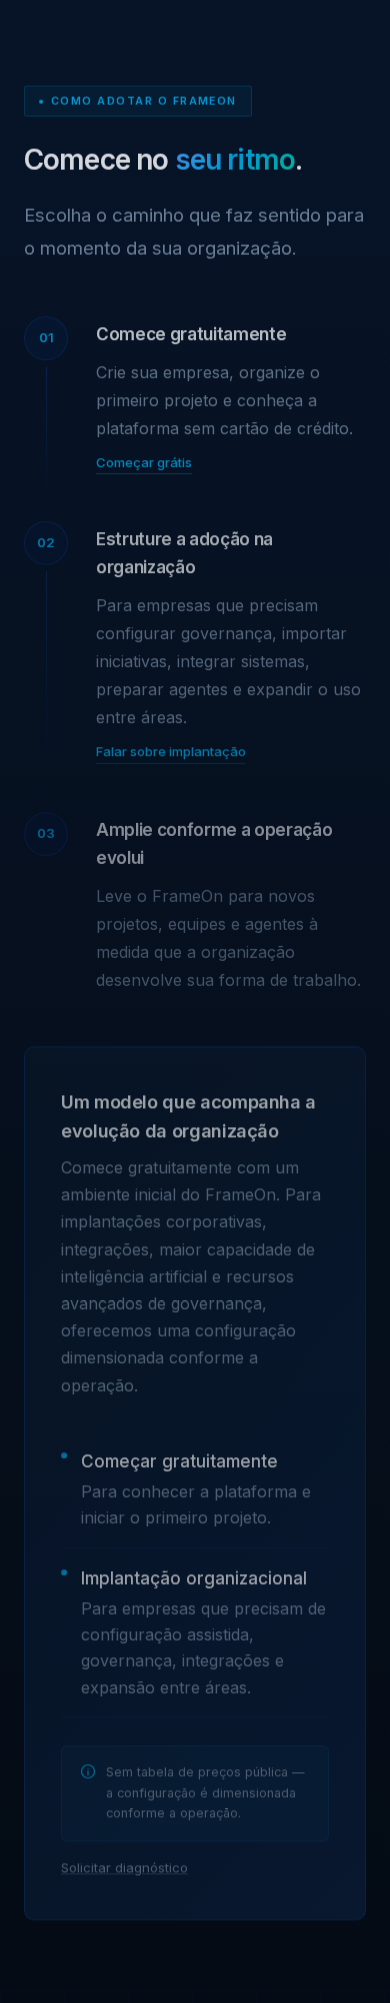
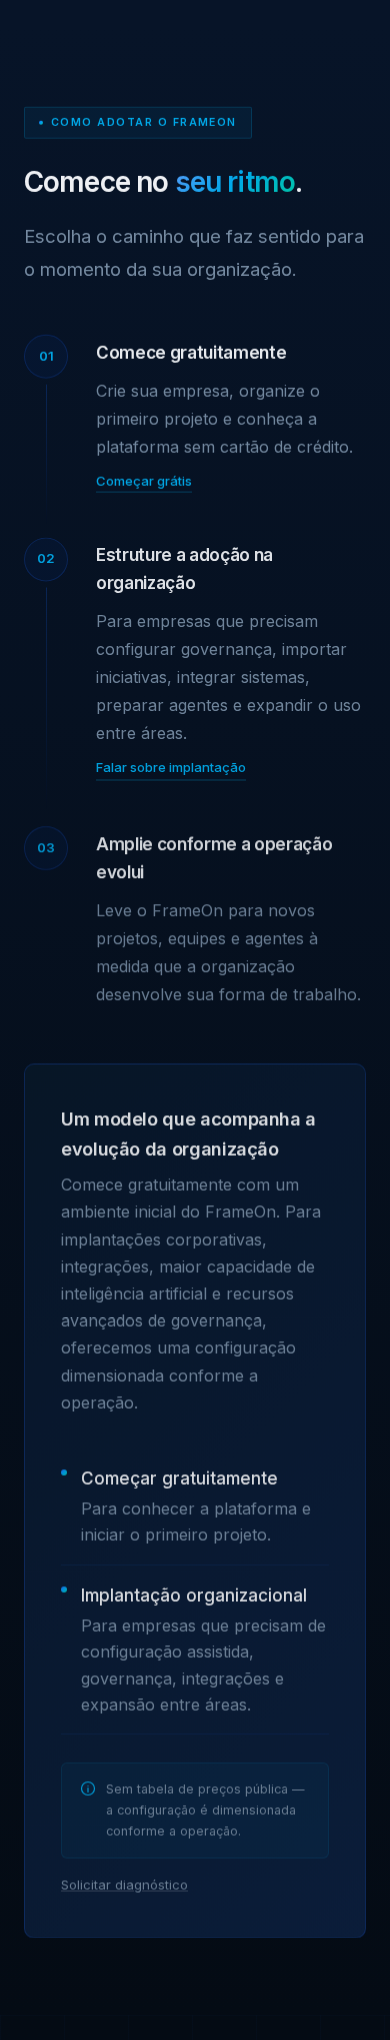
Substitui o mockup do placeholder por ilustracao conceitual de produto SaaS
Atendendo ao pedido de nao usar um placeholder vazio/tracejado nem uma
reproducao da interface real do FrameOn:

- Novo '.concept-panel': ilustracao conceitual de um produto SaaS
  ficticio (dark mode, azul/ciano, cantos arredondados, glassmorphism
  leve, linhas finas) mostrando: sidebar de projetos ativos com barras
  de progresso; fluxo pessoas -> agentes com linha animada; painel de
  projeto central com timeline de tarefas (concluidas/ativa/pendentes)
  e tag 'Decision'; grade 2x2 de 4 agentes nomeados (Requirements,
  Delivery, Risk, Knowledge Agent) cada um com tag de status (AI
  Agent, Completed, Review, Context Updated); mini metricas (donut +
  sparkline). Nenhum texto, logo ou tela reais do FrameOn.
- Badge 'Conceito ilustrativo' reposicionado para a borda superior do
  card (fora da area com overflow:hidden, evitando sobreposicao com o
  avatar do topbar).
- Legenda abaixo reforca por escrito que e uma ilustracao conceitual,
  nao a interface real do produto (pt/en/es em i18n.js).
- Regenerados os 13 screenshots do PR com o novo mockup.

diff --git a/index.html b/index.html
@@ -188,23 +188,72 @@ footer{background:#030810;border-top:1px solid var(--border);padding:64px 0 40px
 /* ── DEMO (Veja o FrameOn em acao) ── */
 .s-demo{background:var(--bg-deep)}
 .demo-visual{display:flex;flex-direction:column;gap:16px}
-.demo-frame{position:relative;border-radius:12px;overflow:hidden;border:1px solid rgba(30,107,255,.22);background:linear-gradient(135deg,#091829,#0D2040);box-shadow:0 24px 60px rgba(0,0,0,.35)}
-.demo-frame-badge{position:absolute;top:14px;right:14px;font-size:9.5px;font-weight:600;letter-spacing:.08em;text-transform:uppercase;color:var(--cyan);background:rgba(0,174,239,.1);border:1px solid rgba(0,174,239,.25);padding:4px 10px;border-radius:100px;z-index:2}
-.demo-frame-bar{display:flex;align-items:center;gap:6px;padding:14px 16px;border-bottom:1px solid var(--border);background:rgba(4,11,20,.4)}
-.demo-dot{width:7px;height:7px;border-radius:50%;background:#2A4060}
-.demo-frame-url{margin-left:10px;height:8px;width:120px;border-radius:4px;background:rgba(255,255,255,.06)}
-.demo-frame-body{display:flex;min-height:320px}
-.demo-frame-nav{width:64px;padding:20px 10px;display:flex;flex-direction:column;gap:12px;border-right:1px solid var(--border)}
-.demo-nav-item{height:8px;border-radius:4px;background:rgba(255,255,255,.07)}
-.demo-nav-item.active{background:var(--grad-main)}
-.demo-frame-content{flex:1;padding:24px;display:flex;flex-direction:column;gap:16px}
-.demo-content-row{height:10px;width:55%;border-radius:4px;background:rgba(255,255,255,.09)}
-.demo-card{background:rgba(255,255,255,.02);border:1px solid var(--border);border-radius:8px;padding:14px;display:flex;flex-direction:column;gap:8px}
-.demo-card-line{height:7px;border-radius:4px;background:rgba(255,255,255,.09)}
-.demo-card-line.w70{width:70%}.demo-card-line.w60{width:60%}.demo-card-line.w50{width:50%}.demo-card-line.w40{width:40%}.demo-card-line.w30{width:30%}
-.demo-card-agent{flex-direction:row;align-items:center;gap:10px;border-color:rgba(0,174,239,.3);background:rgba(0,174,239,.05)}
-.demo-agent-dot{width:16px;height:16px;border-radius:50%;background:var(--grad-main);flex-shrink:0;box-shadow:0 0 12px rgba(30,107,255,.6)}
-.demo-visual-caption{font-size:12px;color:var(--white-muted);text-align:center}
+.concept-wrap{position:relative}
+.demo-frame-badge{position:absolute;top:-11px;right:20px;font-size:9.5px;font-weight:600;letter-spacing:.08em;text-transform:uppercase;color:var(--cyan);background:#0B1F3B;border:1px solid rgba(0,174,239,.35);padding:4px 10px;border-radius:100px;z-index:3;box-shadow:0 4px 12px rgba(0,0,0,.3)}
+.demo-visual-caption{font-size:12px;color:var(--white-muted);text-align:center;max-width:440px;margin:0 auto;line-height:1.6}
+
+/* ── Concept mockup: fictional SaaS product illustration ── */
+.concept-panel{position:relative;border-radius:16px;overflow:hidden;border:1px solid rgba(30,107,255,.2);background:linear-gradient(160deg,rgba(9,24,41,.92),rgba(13,32,64,.88));box-shadow:0 30px 70px rgba(0,0,0,.4)}
+.concept-panel::before{content:'';position:absolute;top:-100px;right:-70px;width:260px;height:260px;background:radial-gradient(circle,rgba(0,174,239,.10),transparent 70%);pointer-events:none}
+.concept-topbar{position:relative;display:flex;align-items:center;gap:6px;padding:14px 18px;border-bottom:1px solid var(--border);background:rgba(4,11,20,.35)}
+.concept-dot{width:7px;height:7px;border-radius:50%;background:#2A4060}
+.concept-search{margin-left:12px;height:8px;width:100px;border-radius:4px;background:rgba(255,255,255,.06)}
+.concept-avatar{margin-left:auto;width:20px;height:20px;border-radius:50%;background:var(--grad-main);opacity:.85}
+.concept-body{position:relative;display:flex;min-height:400px}
+.concept-sidebar{width:86px;flex-shrink:0;padding:18px 12px;display:flex;flex-direction:column;gap:16px;border-right:1px solid var(--border)}
+.concept-sidebar-label{font-size:8.5px;font-weight:700;letter-spacing:.12em;color:var(--white-muted);text-transform:uppercase}
+.concept-proj{display:flex;align-items:center;gap:7px}
+.concept-proj-dot{width:6px;height:6px;border-radius:50%;flex-shrink:0}
+.concept-proj-dot.c1{background:var(--cyan)}
+.concept-proj-dot.c2{background:var(--teal)}
+.concept-proj-dot.c3{background:#5B9FFF}
+.concept-proj-bar{flex:1;height:5px;border-radius:3px;background:rgba(255,255,255,.07);overflow:hidden}
+.concept-proj-bar span{display:block;height:100%;border-radius:3px;background:var(--grad-main)}
+.concept-main{flex:1;padding:20px 22px 22px;display:flex;flex-direction:column;gap:16px;min-width:0}
+.concept-flow{display:flex;align-items:center;gap:10px;height:24px}
+.concept-people{display:flex;flex-shrink:0}
+.concept-people span{width:22px;height:22px;border-radius:50%;background:linear-gradient(135deg,#1E6BFF,#00AEEF);border:2px solid #0D2040;margin-left:-8px}
+.concept-people span:first-child{margin-left:0}
+.concept-flow-line{flex:1;height:1px;background:repeating-linear-gradient(90deg,rgba(0,174,239,.45) 0 6px,transparent 6px 12px);position:relative;overflow:hidden}
+.concept-flow-line::after{content:'';position:absolute;top:-1.5px;left:-10px;width:10px;height:4px;border-radius:2px;background:var(--cyan);box-shadow:0 0 8px var(--cyan);animation:flow-move 2.6s linear infinite}
+@keyframes flow-move{0%{left:-10px}100%{left:100%}}
+.concept-flow-hub{width:8px;height:8px;border-radius:50%;background:var(--grad-main);flex-shrink:0;box-shadow:0 0 10px rgba(30,107,255,.7)}
+.concept-project{padding:16px;border:1px solid var(--border);border-radius:10px;background:rgba(255,255,255,.02)}
+.concept-project-head{display:flex;align-items:center;justify-content:space-between;gap:10px;margin-bottom:16px}
+.concept-project-title{height:9px;width:56%;border-radius:4px;background:rgba(255,255,255,.15)}
+.concept-timeline{position:relative;display:flex;align-items:center;justify-content:space-between;padding:0 3px}
+.concept-timeline::before{content:'';position:absolute;left:6px;right:6px;top:50%;height:1px;background:var(--border);transform:translateY(-50%)}
+.concept-tl-node{position:relative;width:11px;height:11px;border-radius:50%;background:var(--bg-card);border:1.5px solid rgba(255,255,255,.16)}
+.concept-tl-node.done{background:var(--grad-main);border-color:transparent}
+.concept-tl-node.active{background:var(--bg-abyss);border-color:var(--cyan);box-shadow:0 0 0 4px rgba(0,174,239,.15)}
+.concept-tl-node.active::after{content:'';position:absolute;inset:2.5px;border-radius:50%;background:var(--cyan);animation:pulse-dot 1.8s ease-in-out infinite}
+.concept-agents{display:grid;grid-template-columns:1fr 1fr;gap:10px}
+.concept-agent{display:flex;align-items:center;gap:10px;padding:11px 12px;border-radius:9px;border:1px solid var(--border);background:rgba(255,255,255,.015);transition:border-color .2s}
+.concept-agent:hover{border-color:rgba(30,107,255,.3)}
+.concept-agent-icon{width:26px;height:26px;border-radius:7px;flex-shrink:0;display:flex;align-items:center;justify-content:center}
+.concept-agent-icon.a1{background:rgba(0,174,239,.12);border:1px solid rgba(0,174,239,.3)}
+.concept-agent-icon.a2{background:rgba(0,203,169,.12);border:1px solid rgba(0,203,169,.3)}
+.concept-agent-icon.a3{background:rgba(30,107,255,.12);border:1px solid rgba(30,107,255,.3)}
+.concept-agent-icon.a4{background:rgba(91,159,255,.12);border:1px solid rgba(91,159,255,.3)}
+.concept-agent-icon span{width:7px;height:7px;border-radius:2px}
+.concept-agent-icon.a1 span{background:var(--cyan)}
+.concept-agent-icon.a2 span{background:var(--teal)}
+.concept-agent-icon.a3 span{background:#1E6BFF}
+.concept-agent-icon.a4 span{background:#5B9FFF}
+.concept-agent-info{min-width:0;display:flex;flex-direction:column;gap:5px}
+.concept-agent-name{font-size:10.5px;font-weight:500;color:var(--white-dim);white-space:nowrap;overflow:hidden;text-overflow:ellipsis}
+.concept-tag{display:inline-flex;align-items:center;font-size:8px;font-weight:600;letter-spacing:.04em;text-transform:uppercase;padding:2.5px 7px;border-radius:100px;width:fit-content}
+.concept-tag.t-agent{color:var(--cyan);background:rgba(0,174,239,.12)}
+.concept-tag.t-decision{color:#5B9FFF;background:rgba(91,159,255,.14)}
+.concept-tag.t-context{color:var(--teal);background:rgba(0,203,169,.12)}
+.concept-tag.t-completed{color:var(--teal);background:rgba(0,203,169,.12)}
+.concept-tag.t-review{color:var(--white-dim);background:rgba(255,255,255,.08)}
+.concept-metrics{display:flex;align-items:center;gap:18px;padding-top:2px}
+.concept-donut{width:44px;height:44px;border-radius:50%;background:conic-gradient(var(--cyan) 0turn .72turn,rgba(255,255,255,.08) .72turn 1turn);display:flex;align-items:center;justify-content:center;flex-shrink:0}
+.concept-donut::before{content:'';width:30px;height:30px;border-radius:50%;background:#0B1F3B}
+.concept-sparkline{display:flex;align-items:flex-end;gap:3px;height:30px;flex:1}
+.concept-sparkline span{flex:1;border-radius:2px 2px 0 0;background:linear-gradient(180deg,var(--cyan),rgba(0,174,239,.15))}
+@media(max-width:768px){.concept-sidebar{display:none}.concept-agents{grid-template-columns:1fr}}
 @media(max-width:768px){.demo-frame-nav{display:none}}
 /* ── START (Comece por um projeto real) ── */
 .s-start{background:var(--bg-deep)}
@@ -548,28 +597,56 @@ footer{background:#030810;border-top:1px solid var(--border);padding:64px 0 40px
         </div>
       </div>
       <div class="demo-visual fade-up d2">
-        <div class="demo-frame">
-          <div class="demo-frame-badge" data-i18n="demo_placeholder_title">Prévia da plataforma</div>
-          <div class="demo-frame-bar">
-            <span class="demo-dot"></span><span class="demo-dot"></span><span class="demo-dot"></span>
-            <div class="demo-frame-url"></div>
+        <div class="concept-wrap">
+        <div class="demo-frame-badge" data-i18n="demo_placeholder_title">Conceito ilustrativo</div>
+        <div class="concept-panel">
+          <div class="concept-topbar">
+            <span class="concept-dot"></span><span class="concept-dot"></span><span class="concept-dot"></span>
+            <div class="concept-search"></div>
+            <div class="concept-avatar"></div>
           </div>
-          <div class="demo-frame-body">
-            <div class="demo-frame-nav">
-              <div class="demo-nav-item active"></div>
-              <div class="demo-nav-item"></div>
-              <div class="demo-nav-item"></div>
-              <div class="demo-nav-item"></div>
+          <div class="concept-body">
+            <div class="concept-sidebar">
+              <div class="concept-sidebar-label">Projetos</div>
+              <div class="concept-proj"><span class="concept-proj-dot c1"></span><div class="concept-proj-bar"><span style="width:74%"></span></div></div>
+              <div class="concept-proj"><span class="concept-proj-dot c2"></span><div class="concept-proj-bar"><span style="width:42%"></span></div></div>
+              <div class="concept-proj"><span class="concept-proj-dot c3"></span><div class="concept-proj-bar"><span style="width:88%"></span></div></div>
             </div>
-            <div class="demo-frame-content">
-              <div class="demo-content-row"></div>
-              <div class="demo-card"><div class="demo-card-line w70"></div><div class="demo-card-line w40"></div></div>
-              <div class="demo-card"><div class="demo-card-line w60"></div><div class="demo-card-line w30"></div></div>
-              <div class="demo-card demo-card-agent"><div class="demo-agent-dot"></div><div class="demo-card-line w50"></div></div>
+            <div class="concept-main">
+              <div class="concept-flow">
+                <div class="concept-people"><span></span><span></span></div>
+                <div class="concept-flow-line"></div>
+                <div class="concept-flow-hub"></div>
+                <div class="concept-flow-line"></div>
+              </div>
+              <div class="concept-project">
+                <div class="concept-project-head">
+                  <div class="concept-project-title"></div>
+                  <span class="concept-tag t-decision">Decision</span>
+                </div>
+                <div class="concept-timeline">
+                  <div class="concept-tl-node done"></div>
+                  <div class="concept-tl-node done"></div>
+                  <div class="concept-tl-node active"></div>
+                  <div class="concept-tl-node"></div>
+                  <div class="concept-tl-node"></div>
+                </div>
+              </div>
+              <div class="concept-agents">
+                <div class="concept-agent"><div class="concept-agent-icon a1"><span></span></div><div class="concept-agent-info"><div class="concept-agent-name">Requirements Agent</div><span class="concept-tag t-agent">AI Agent</span></div></div>
+                <div class="concept-agent"><div class="concept-agent-icon a2"><span></span></div><div class="concept-agent-info"><div class="concept-agent-name">Delivery Agent</div><span class="concept-tag t-completed">Completed</span></div></div>
+                <div class="concept-agent"><div class="concept-agent-icon a3"><span></span></div><div class="concept-agent-info"><div class="concept-agent-name">Risk Agent</div><span class="concept-tag t-review">Review</span></div></div>
+                <div class="concept-agent"><div class="concept-agent-icon a4"><span></span></div><div class="concept-agent-info"><div class="concept-agent-name">Knowledge Agent</div><span class="concept-tag t-context">Context Updated</span></div></div>
+              </div>
+              <div class="concept-metrics">
+                <div class="concept-donut"></div>
+                <div class="concept-sparkline"><span style="height:38%"></span><span style="height:52%"></span><span style="height:44%"></span><span style="height:68%"></span><span style="height:92%"></span></div>
+              </div>
             </div>
           </div>
         </div>
-        <div class="demo-visual-caption" data-i18n="demo_placeholder_sub">Representação conceitual da plataforma — a captura real será adicionada aqui em breve.</div>
+        </div>
+        <div class="demo-visual-caption" data-i18n="demo_placeholder_sub">Ilustração conceitual da colaboração entre pessoas e agentes de IA — não representa a interface real do produto.</div>
       </div>
     </div>
   </div>

diff --git a/i18n.js b/i18n.js
@@ -80,8 +80,8 @@ pt: {
   demo_h2:'Veja o FrameOn em ação',
   demo_lead:'Centralize projetos, decisões, contexto e acompanhamento em um ambiente preparado para o trabalho conjunto entre pessoas e agentes de inteligência artificial.',
   demo_cta:'Criar minha conta',
-  demo_placeholder_title:'Prévia da plataforma',
-  demo_placeholder_sub:'Representação conceitual da plataforma — a captura real será adicionada aqui em breve.',
+  demo_placeholder_title:'Conceito ilustrativo',
+  demo_placeholder_sub:'Ilustração conceitual da colaboração entre pessoas e agentes de IA — não representa a interface real do produto.',
   /* COMECE POR UM PROJETO REAL (novo) */
   start_tag:'Como começar',
   start_h2:'Comece por um projeto real',
@@ -344,8 +344,8 @@ en: {
   demo_h2:'See FrameOn in action',
   demo_lead:'Centralize projects, decisions, context, and tracking in one environment built for people and AI agents to work together.',
   demo_cta:'Create my account',
-  demo_placeholder_title:'Platform preview',
-  demo_placeholder_sub:'Conceptual representation of the platform — a real screenshot will be added here soon.',
+  demo_placeholder_title:'Concept illustration',
+  demo_placeholder_sub:'A conceptual illustration of people and AI agents collaborating — not a representation of the actual product interface.',
   /* START WITH A REAL PROJECT (new) */
   start_tag:'Getting started',
   start_h2:'Start with one real project',
@@ -599,8 +599,8 @@ es: {
   demo_h2:'Ve FrameOn en acción',
   demo_lead:'Centraliza proyectos, decisiones, contexto y seguimiento en un entorno preparado para el trabajo conjunto entre personas y agentes de inteligencia artificial.',
   demo_cta:'Crear mi cuenta',
-  demo_placeholder_title:'Vista previa de la plataforma',
-  demo_placeholder_sub:'Representación conceptual de la plataforma — la captura real se añadirá aquí próximamente.',
+  demo_placeholder_title:'Ilustración conceptual',
+  demo_placeholder_sub:'Una ilustración conceptual de la colaboración entre personas y agentes de IA — no representa la interfaz real del producto.',
   /* EMPIEZA POR UN PROYECTO REAL (nuevo) */
   start_tag:'Cómo empezar',
   start_h2:'Empieza por un proyecto real',
